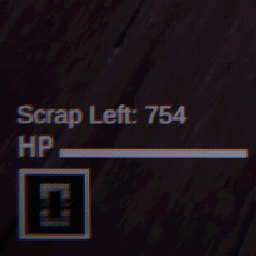
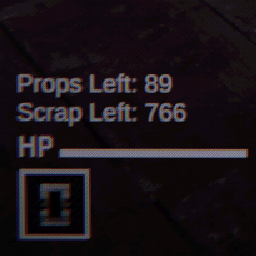
1.0.1
Show props

diff --git a/src/Plugin.cs b/src/Plugin.cs
@@ -1,4 +1,5 @@
 using BepInEx;
+using BepInEx.Configuration;
 using BepInEx.Logging;
 using HarmonyLib;
 using HyenaQuest;
@@ -14,18 +15,34 @@ public class Plugin : BaseUnityPlugin
 	internal static new ManualLogSource Logger;
 	private static GameObject _trackerObject;
 	private static TextMeshProUGUI _trackerText;
+	private static ConfigEntry<bool> ShowProps;
+	private static ConfigEntry<bool> ShowScrap;
 
 	private void Awake()
 	{
 		Logger = base.Logger;
 		Logger.LogInfo($"Plugin {PluginInfo.PLUGIN_NAME} is loaded!");
 
+		ShowProps = Config.Bind(
+			"General",
+			"ShowProps",
+			true,
+			"Show the amount of props left on the map."
+		);
+
+		ShowScrap = Config.Bind(
+			"General",
+			"ShowScrap",
+			true,
+			"Show the amount of scrap left on the map."
+		);
+
 		Harmony harmony = new(PluginInfo.PLUGIN_GUID);
 		harmony.PatchAll();
 
 		SceneManager.sceneLoaded += OnSceneLoaded;
 	}
-
+	
 	/*
 	private void Update()
 	{
@@ -85,7 +102,14 @@ public class Plugin : BaseUnityPlugin
 
 			rect.sizeDelta = new Vector2(10, 1);
 
-			rect.anchoredPosition = new Vector2(17, 130);
+			if (ShowProps.Value && ShowScrap.Value)
+			{
+				rect.anchoredPosition = new Vector2(17, 147);
+			}
+			else
+			{
+				rect.anchoredPosition = new Vector2(17, 130);
+			}
 		}
 
 		_trackerText.text = "";
@@ -100,18 +124,31 @@ public class Plugin : BaseUnityPlugin
 	{
 		var props = FindObjectsByType<entity_phys_prop_scrap>(FindObjectsSortMode.None);
 
-		//Logger.LogInfo($"Total props: {props.Length}");
-
 		int scrap_left = 0;
+		int props_left = 0;
+		
 		foreach (var prop in props)
 		{
 			if (prop == null || prop == exclude) continue;
 			scrap_left += prop.scrap;
+			props_left++;
 		}
 
-		_trackerText.text = $"Scrap Left: {scrap_left}";
+		string text = "";
 
-		//Logger.LogInfo($"Scrap Left: {map_scrap}");
+		if (ShowProps.Value)
+		{
+			text += $"Props Left: {props_left}\n";
+		}
+
+		if (ShowScrap.Value)
+		{
+			text += $"Scrap Left: {scrap_left}";
+		}
+
+		_trackerText.text = text;
+
+		//Logger.LogInfo($"Props Left: {props.Length} Scrap Left: {map_scrap}");
 	}
 
 	[HarmonyPatch(typeof(entity_phys_prop_scrap))]

diff --git a/src/PluginInfo.cs b/src/PluginInfo.cs
@@ -4,5 +4,5 @@ public static class PluginInfo
 {
 	public const string PLUGIN_GUID = "com.tybikkryt.map-scrap-tracker";
 	public const string PLUGIN_NAME = "Map Scrap Tracker";
-	public const string PLUGIN_VERSION = "1.0.0";
+	public const string PLUGIN_VERSION = "1.0.1";
 }
